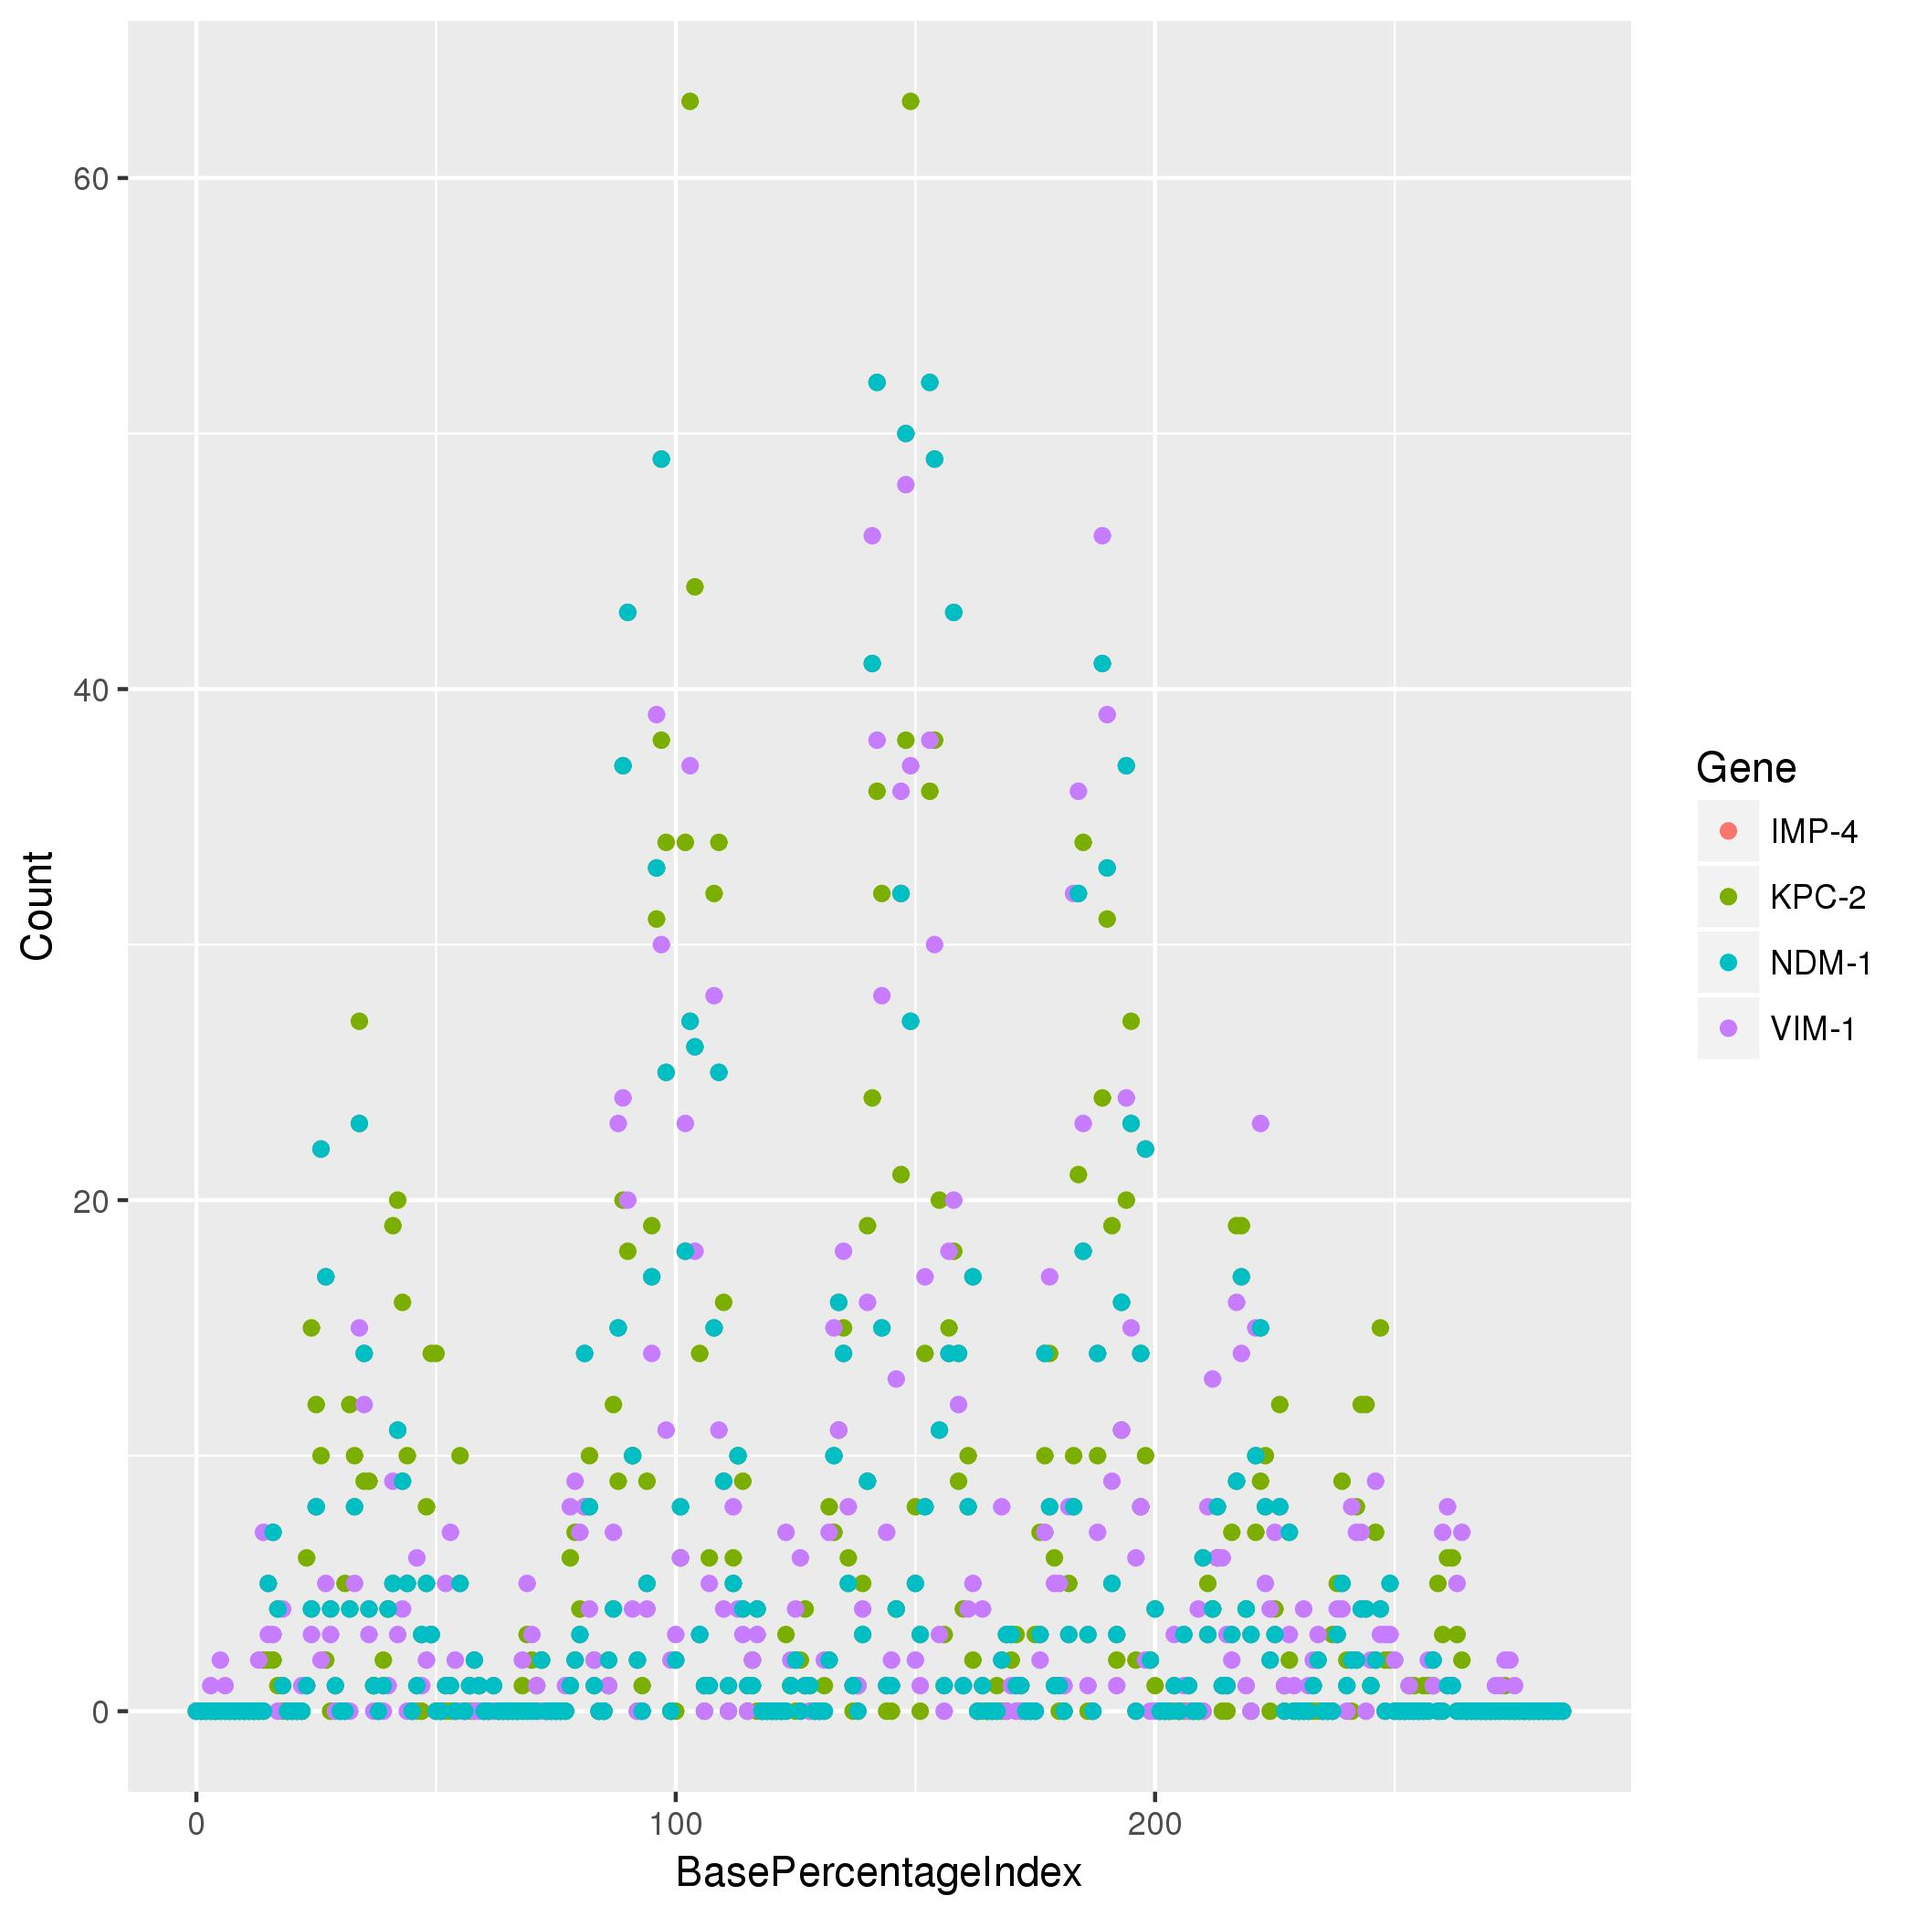
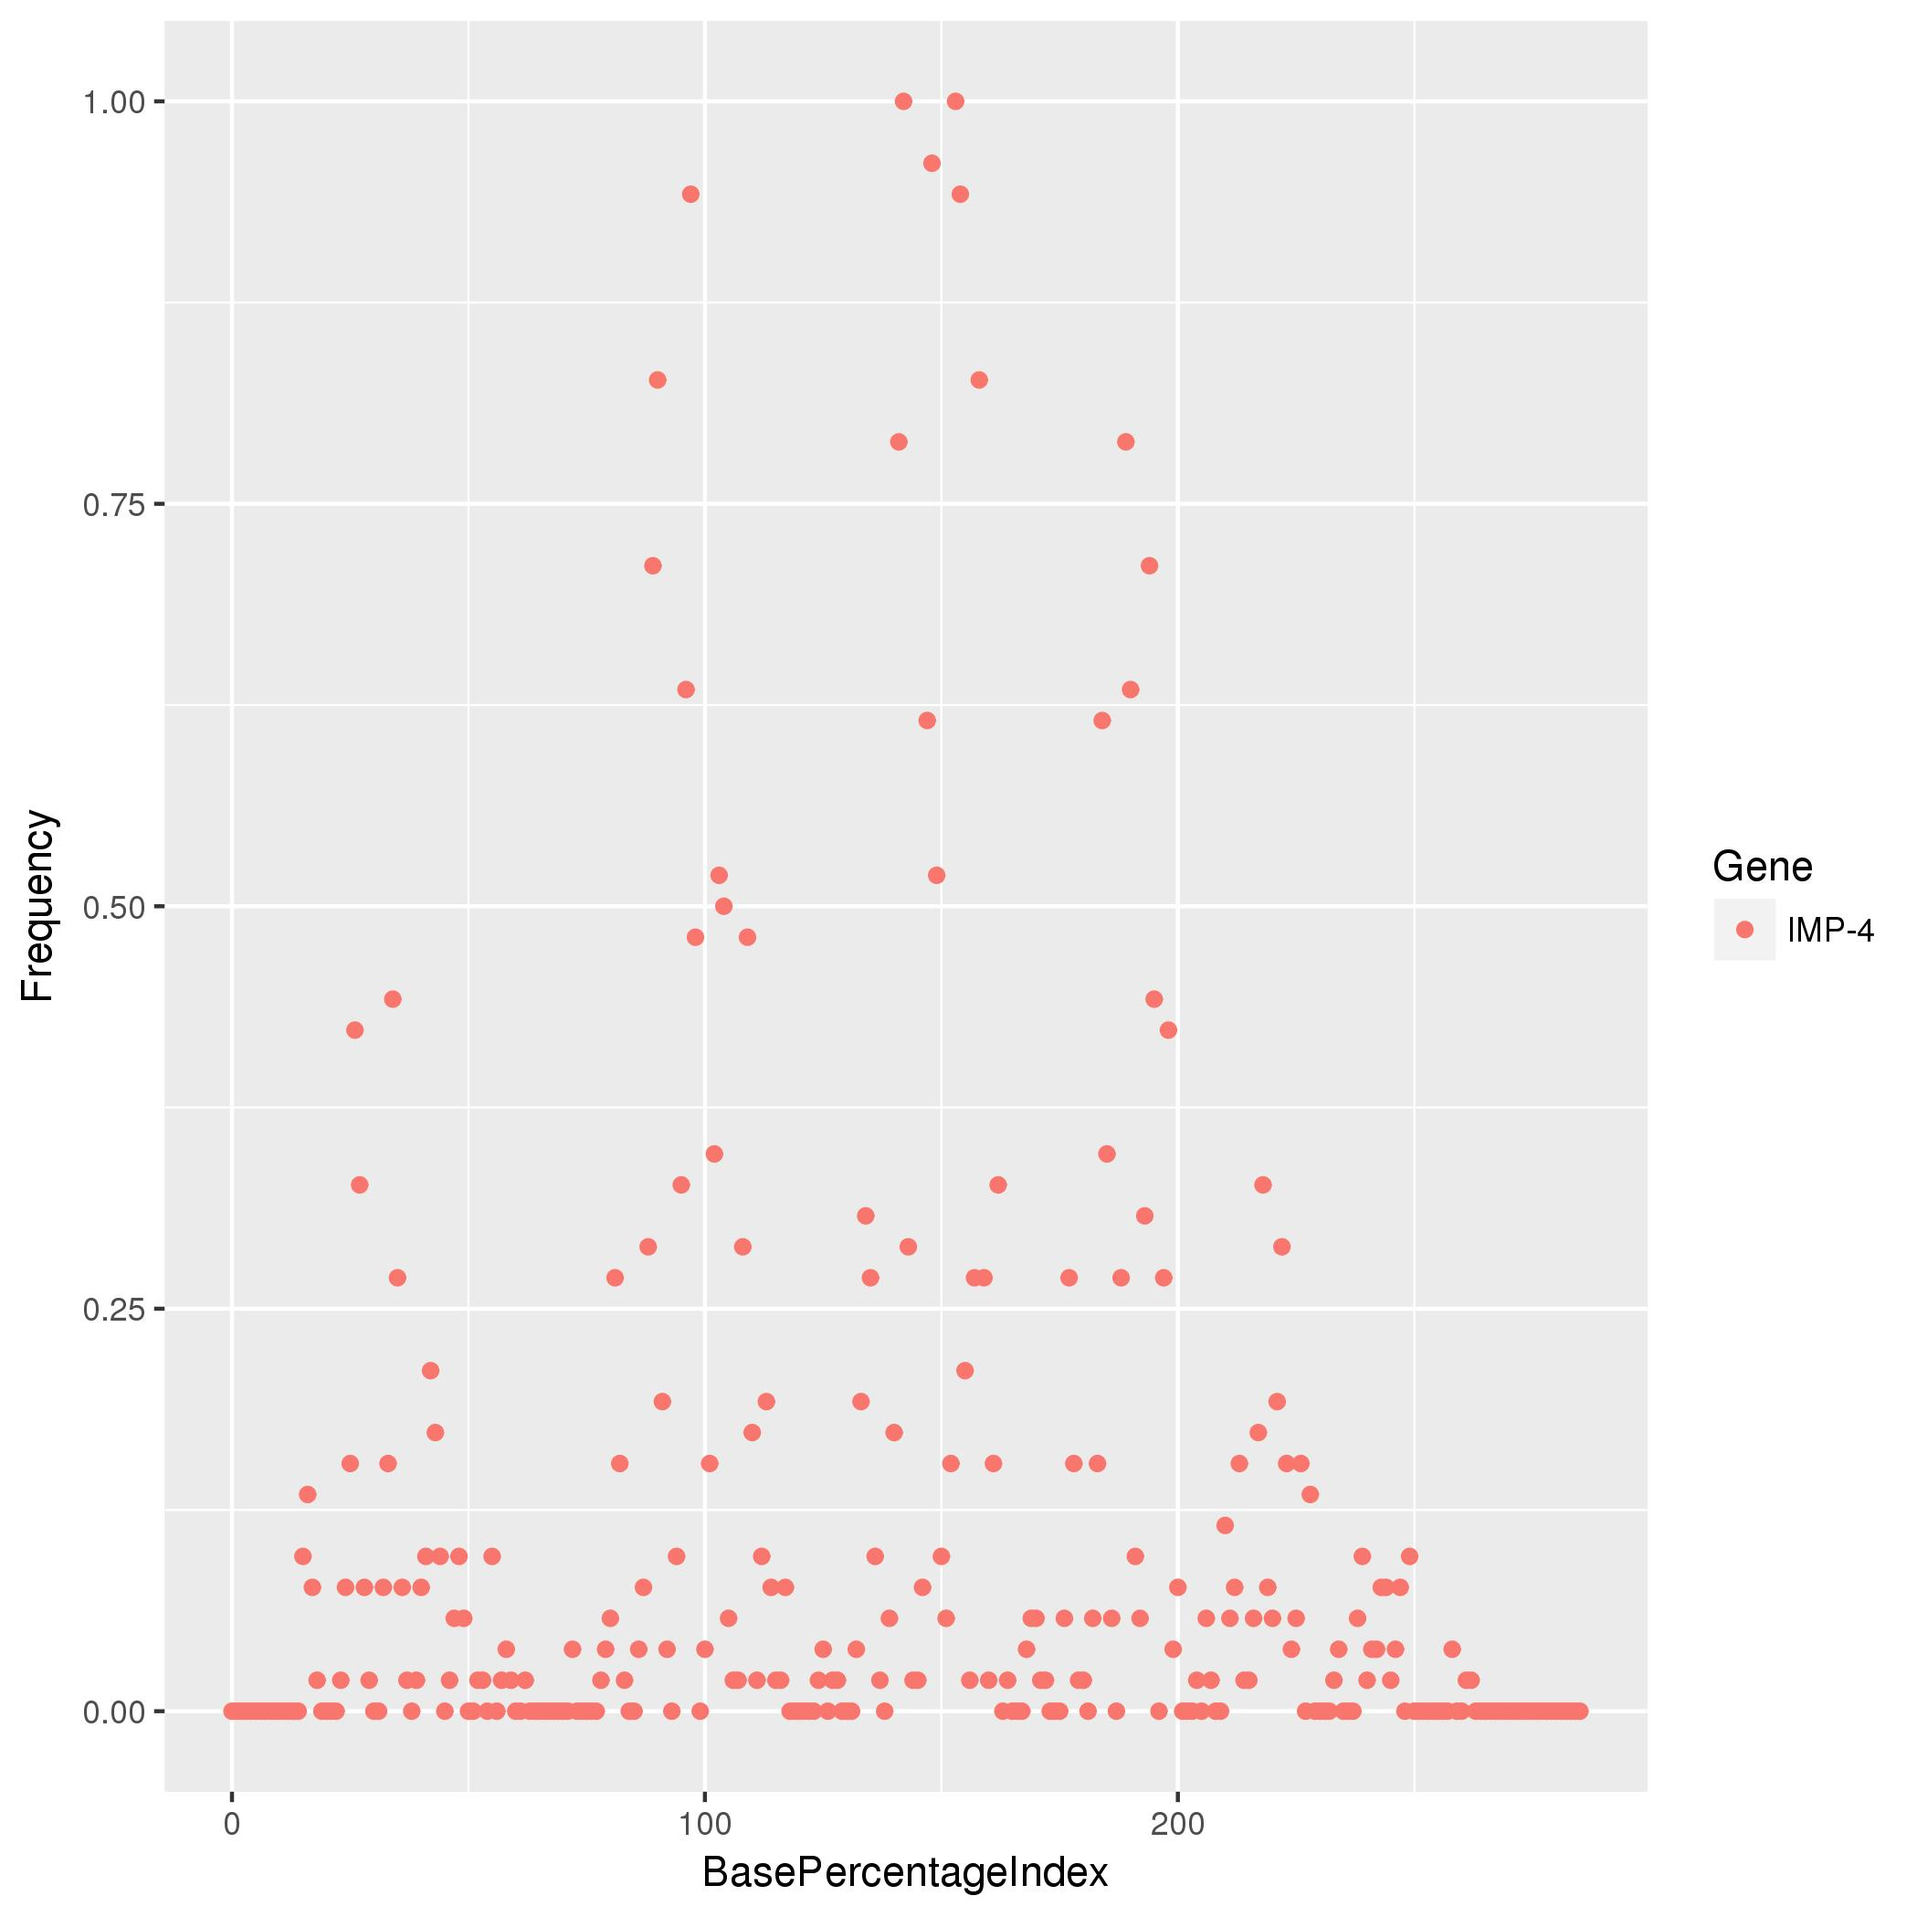
now plots the frequency of different 10mer base percentages rather than counts

diff --git a/pyScripts/convertToBasePercentageSpace.py b/pyScripts/convertToBasePercentageSpace.py
@@ -61,7 +61,7 @@ def  getBPHash(seq, k):
 
 	return (BPhash, reverseHash)
 
-def main(k):
+def main(k, name):
 	BPSpaceDict = initializeBPDict(k)
 	count = 0
 	for line in sys.stdin:
@@ -73,22 +73,21 @@ def main(k):
 			BPSpaceDict[BPHash] += count
 			BPSpaceDict[reverseHash] += count
 
-	print("BasePercentageIndex\tCount")
 	for i,hash in enumerate(BPSpaceDict):
-		print("%i\t%d" % (i, BPSpaceDict[hash]) )
+		print("%i\t%d\t%s" % (i, BPSpaceDict[hash], name) )
 
 def error():
 
-    USAGE = '''ERROR: Please specify kmer length as input parameter
+    USAGE = '''ERROR: Please specify kmer length and sequence name
         kmer length must be an integer greater than zero 
-        example: cat 10mers.fasta | ./convertToBasePercentageSpace.py 10'''
+        example: cat 10mers.fasta | ./convertToBasePercentageSpace.py 10 IMP-4'''
     
     print(USAGE)
     exit()
 
 if __name__ == "__main__":
     #make sure user passes in kmer size as argument
-    if len(sys.argv) < 2:
+    if len(sys.argv) < 3:
     	error()
     
     k = 0
@@ -98,9 +97,11 @@ if __name__ == "__main__":
         k = int(sys.argv[1])
     except ValueError:
 	error()
+
+    name = sys.argv[2]
     
     #print error if kmer size is not positive
     if k <= 0:
 	error()
 
-    main(k)
+    main(k,name)
